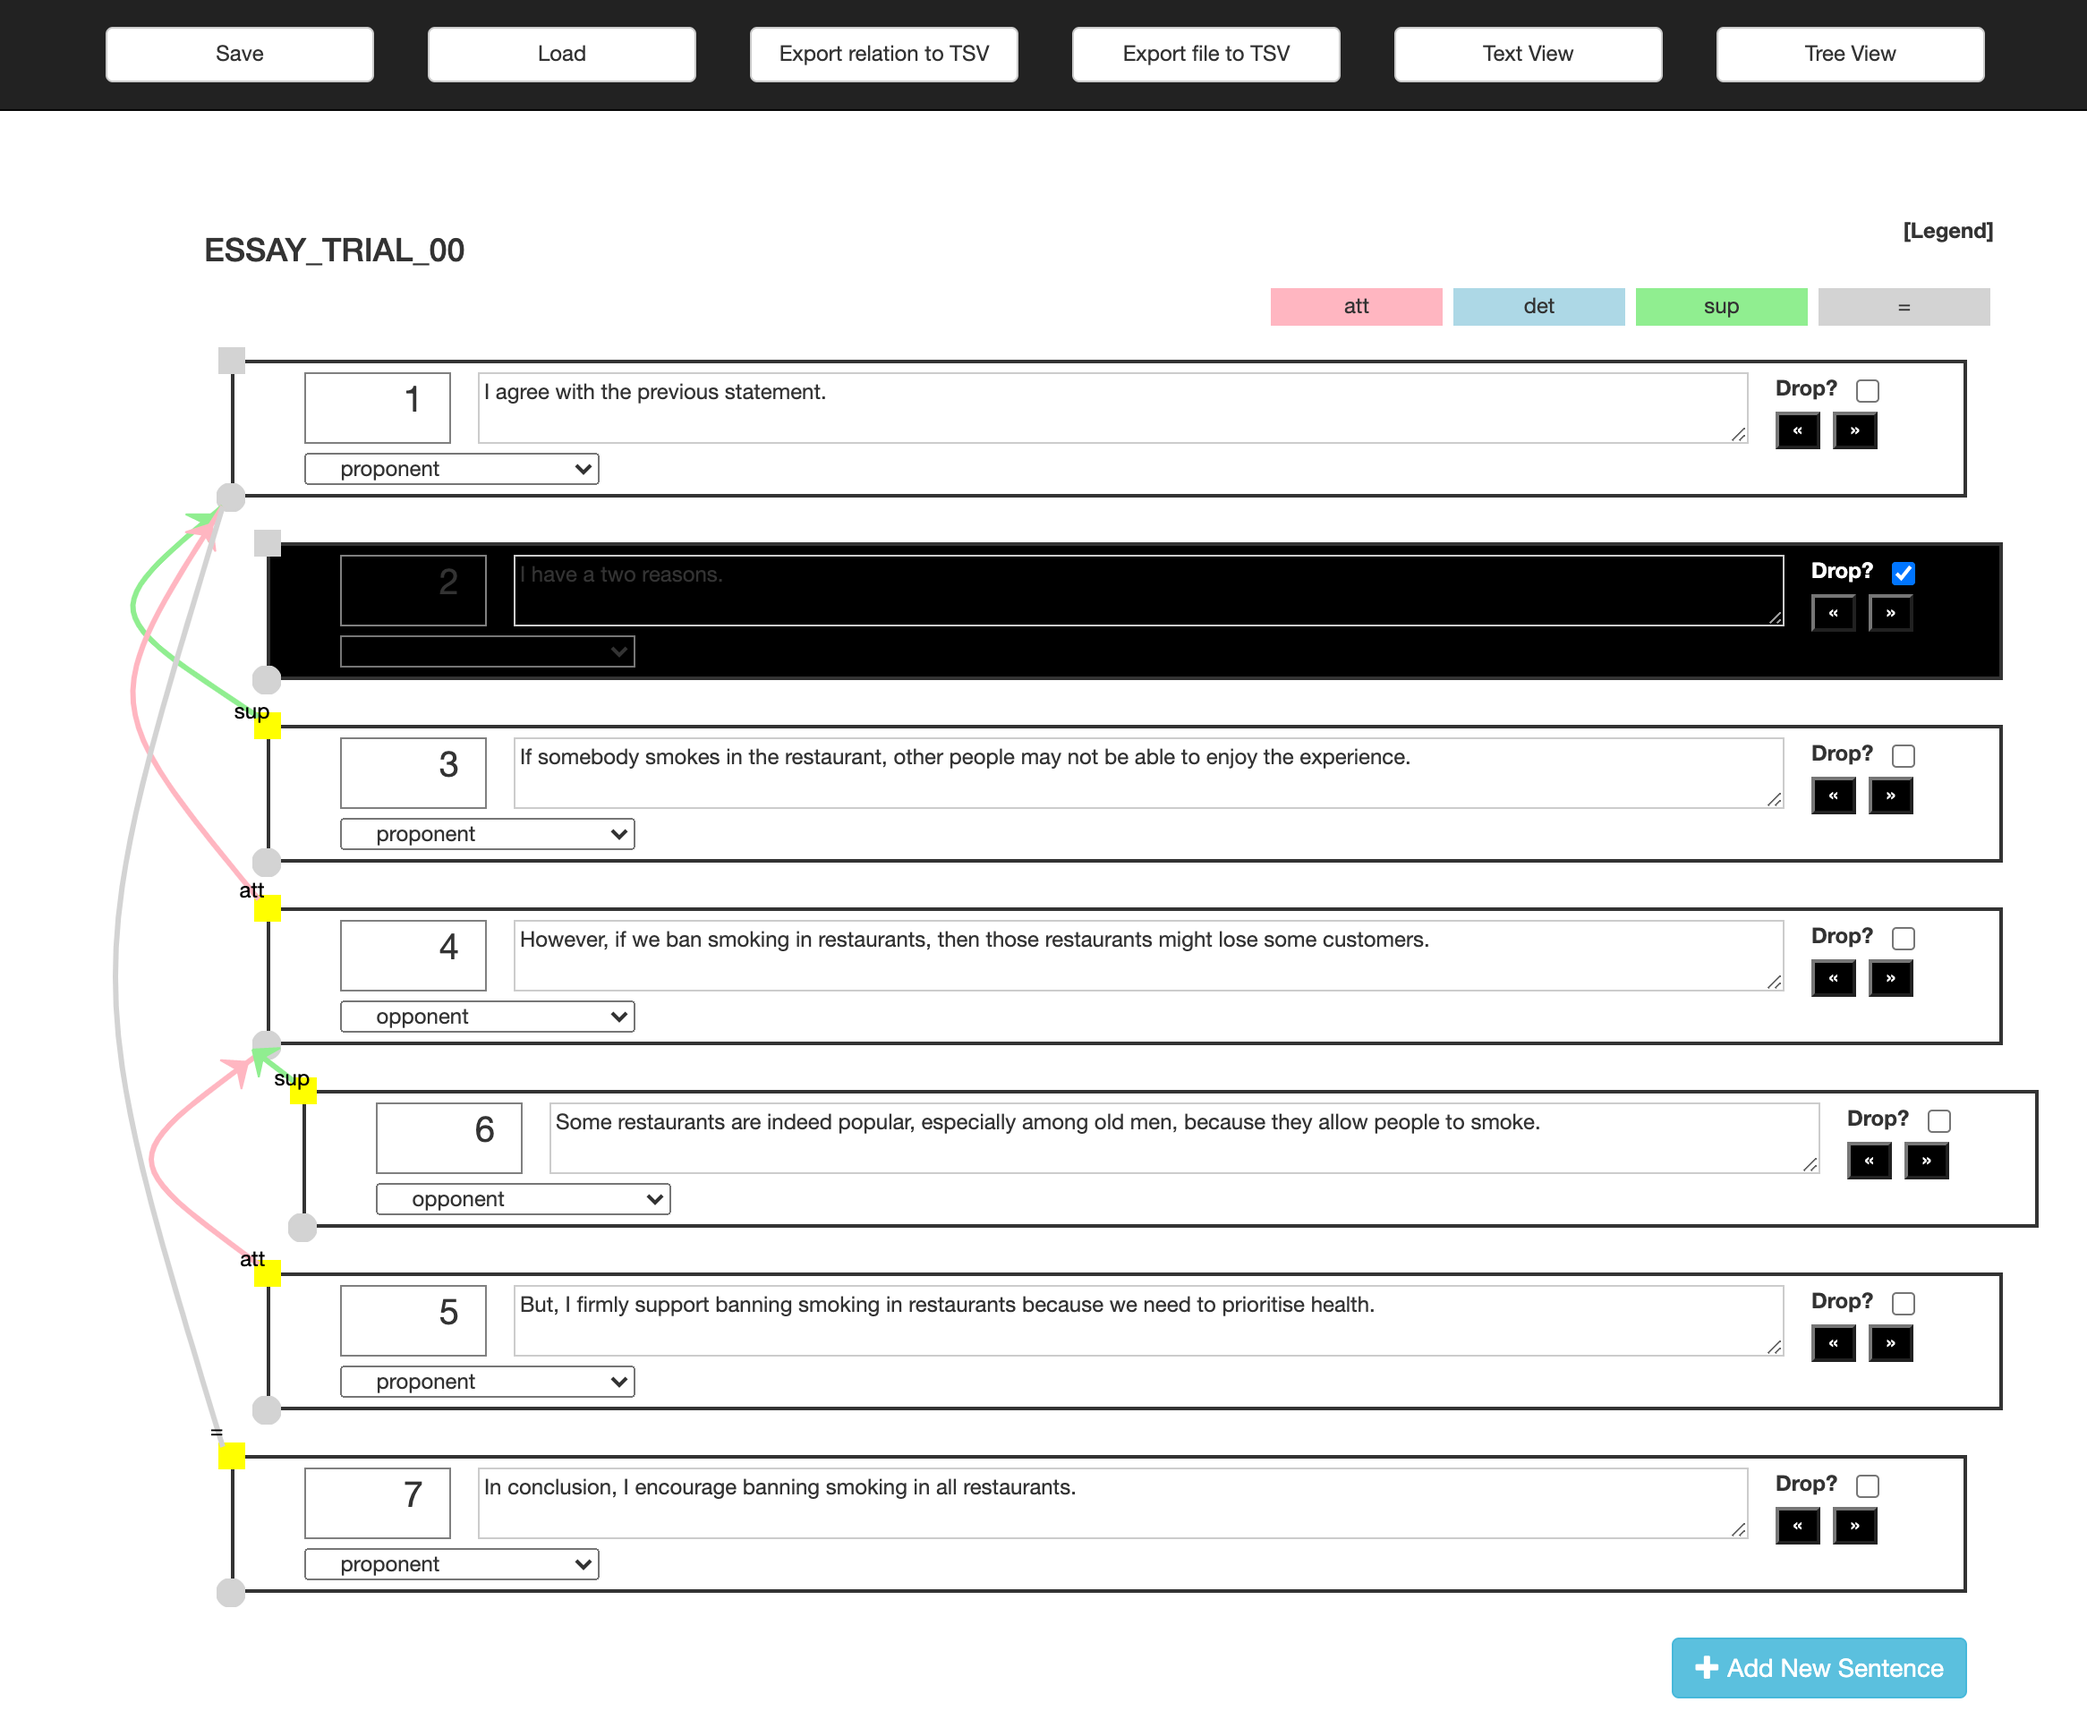
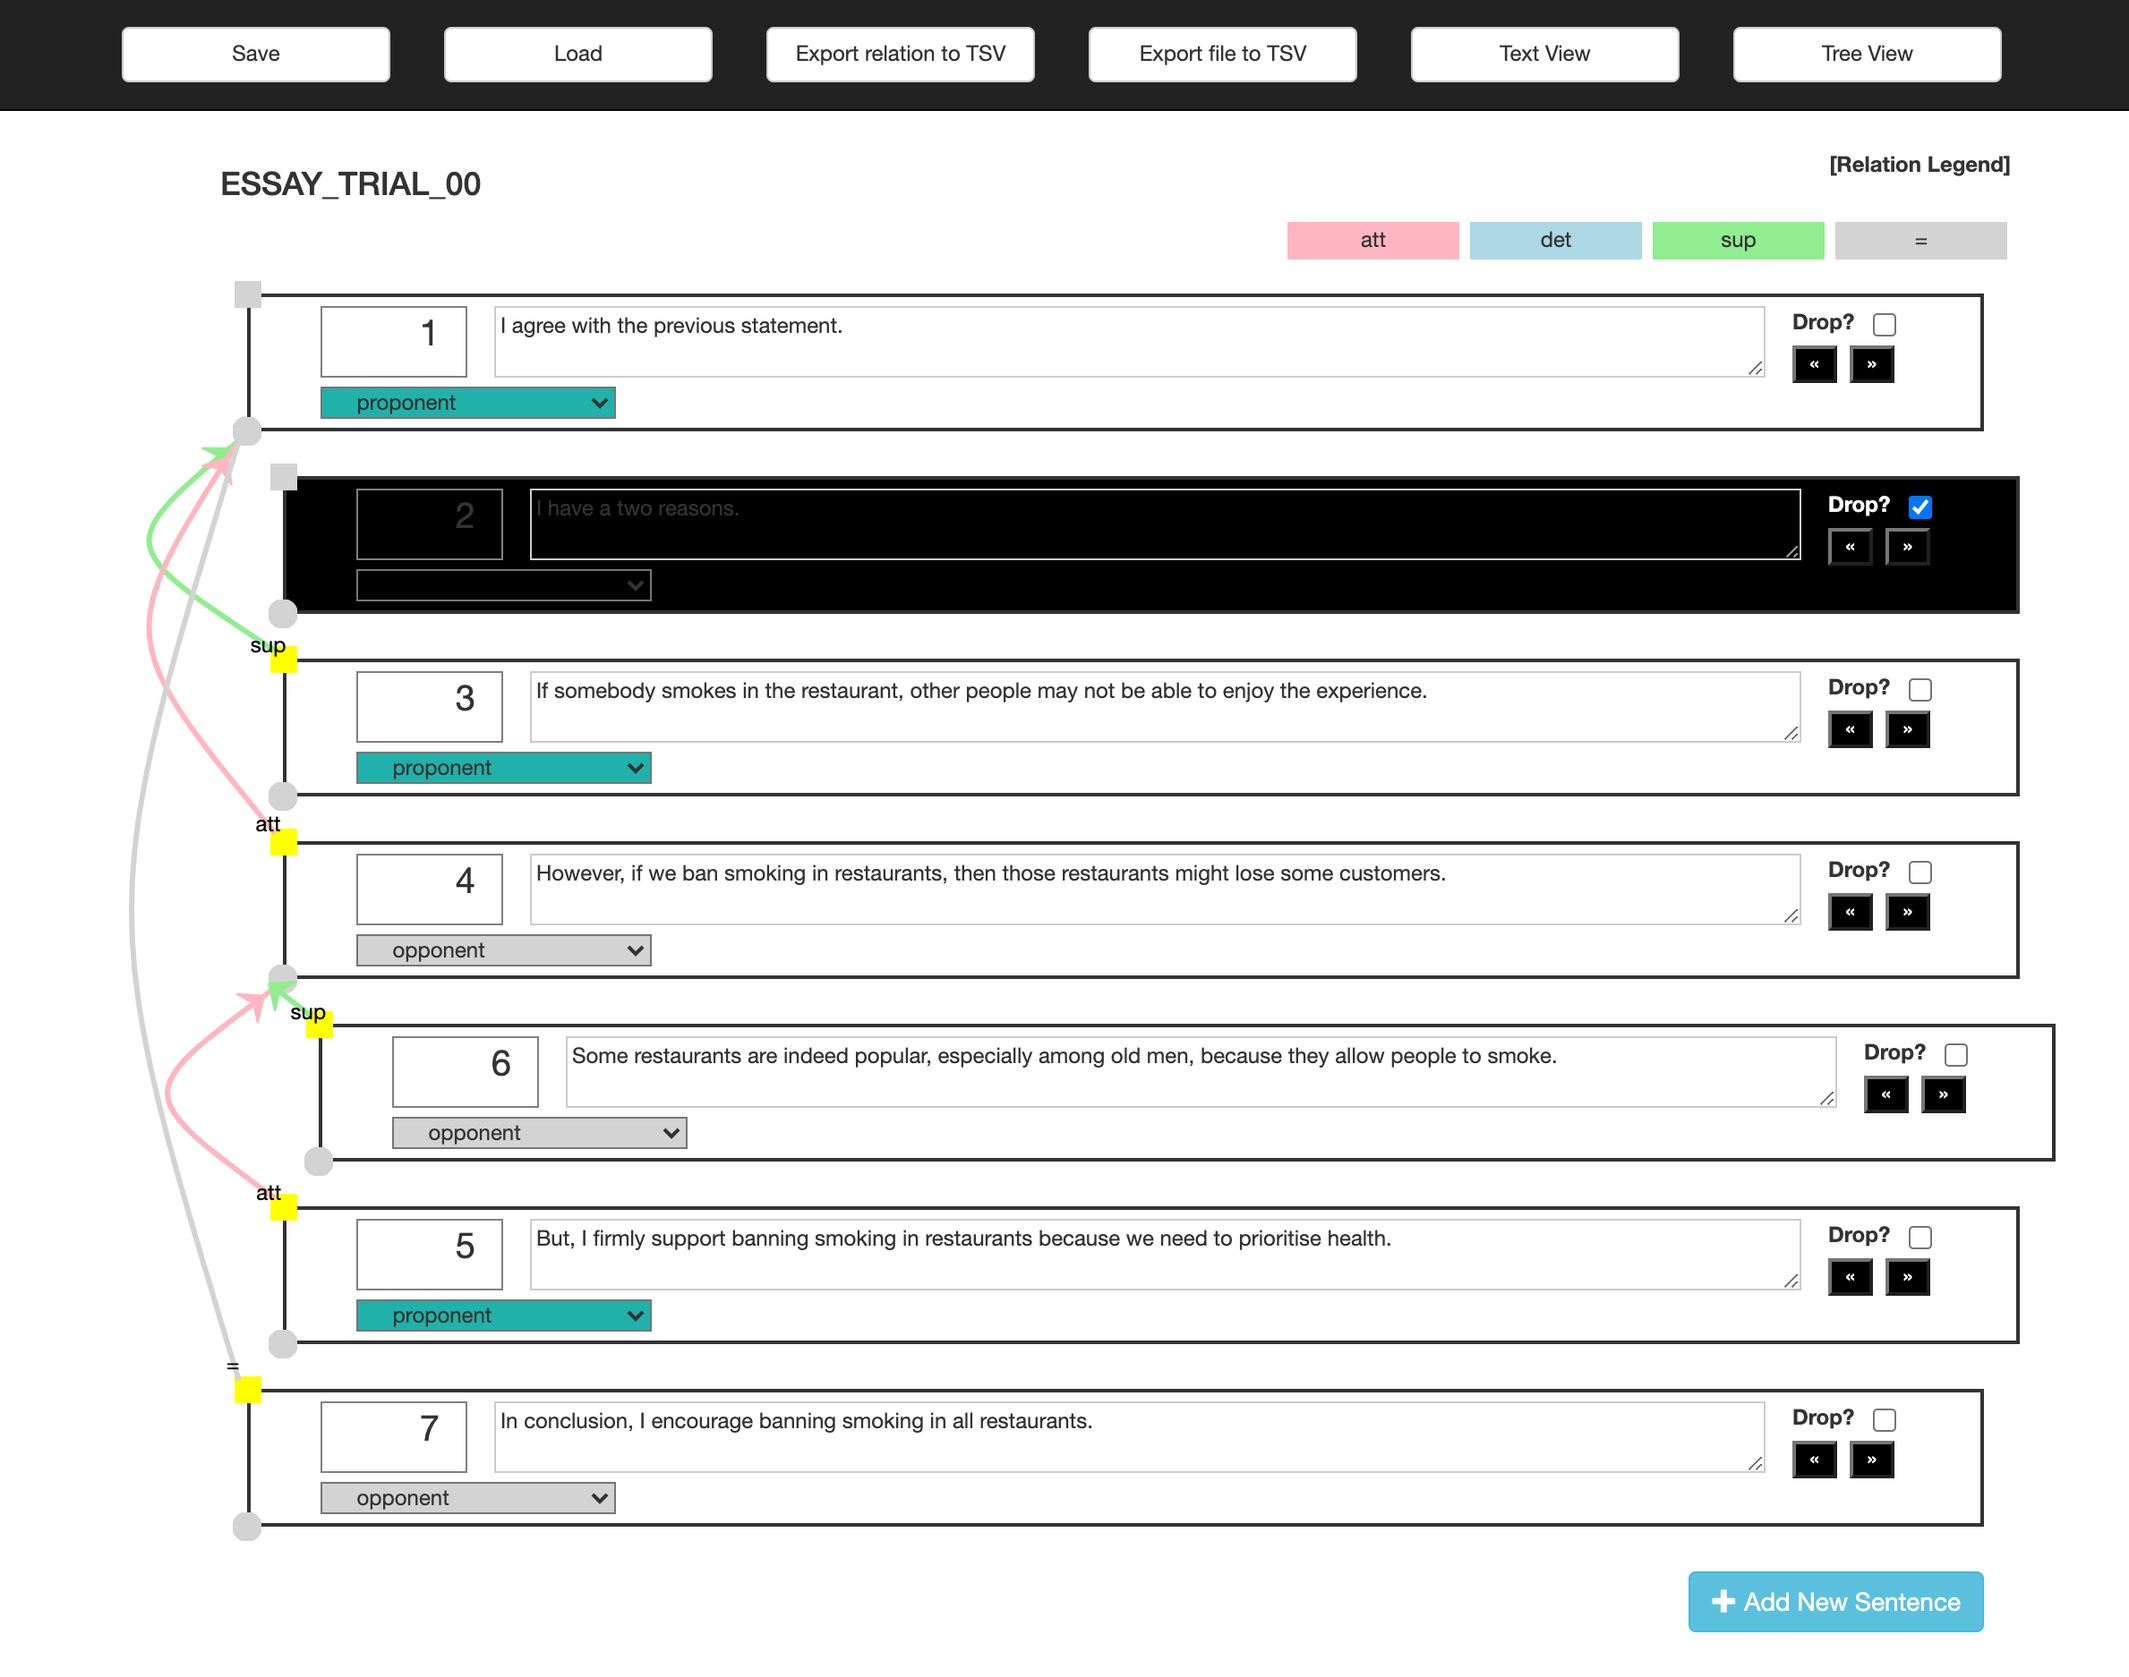
update screenshots and readme

Changed region(s): [[0.0, 0.0, 1.0, 0.9904], [0.0309, 0.5261, 0.0617, 0.5571]]

diff --git a/README.md b/README.md
@@ -1,7 +1,7 @@
 # TIARA v2.0: An Interactive Tool for Annotating Discourse Structure and Text Improvement
 
 [![License: MIT](https://img.shields.io/badge/License-MIT-green.svg)](https://opensource.org/licenses/MIT)
-[![version](https://img.shields.io/badge/version-2.0-red.svg)](https://semver.org) 
+[![version](https://img.shields.io/badge/version-2.0-red.svg)](https://semver.org)
 
 Annotation tool described in [our paper at LREC2020](http://www.lrec-conf.org/proceedings/lrec2020/pdf/2020.lrec-1.854.pdf). Please kindly cite the following paper when you use this tool. **You can use this tool freely**, but it would be appreciated if you could send me a courtesy [email](https://wiragotama.github.io) so I could survey what kind of tasks the tool is used for. 
 
@@ -61,7 +61,7 @@ In conclusion, I encourage banning smoking in all restaurants.
 ## Update!!
 Since we published the LREC paper above, we have made the following updates to the tool.
 
-- ```2020/02/19```: The tool now support the annotation of sentence categories. The textarea of ```text view``` will adjust its size (useful for annotating long texts). 
+- ```2020/02/22```: The tool now support the annotation of sentence categories. The textarea of ```text view``` will adjust its size (useful for annotating long texts). You can also customize the colors for the sentence categories. 
 - ```2021/01/21```: There is a new ```Add New Sentence``` button at the bottom of the ```text view```. This button is dedicated for educational uses. For example, a teacher asks a student to add more sentences to support their argument. Another example is when the teacher asks the student to merge two or more sentences as a single opinion. In this case, the student may "drop" those two or more sentences, and then create a new merged sentence. 
 - ```2021/01/21```: You can now shrink and enlarge the hierarchical view
 - ```2020/10/03```: TIARA can now open ```.tsv``` file that results from ```Format file to TSV``` menu. Please note that the indentation and history do not present in the ```.tsv``` format.
@@ -70,7 +70,7 @@ Since we published the LREC paper above, we have made the following updates to t
 [MIT](https://opensource.org/licenses/MIT)
 
 ## Dependencies (included)
-- [Treant-js](https://github.com/fperucic/treant-js)
+- [Treant-js](https://github.com/fperucic/treant-js) + [Raphael-js](https://dmitrybaranovskiy.github.io/raphael/)
 - [JsPlumb](https://github.com/jsplumb/jsplumb)
 - [html2canvas](https://github.com/niklasvh/html2canvas)
 - [Autosize](https://github.com/jackmoore/autosize)
